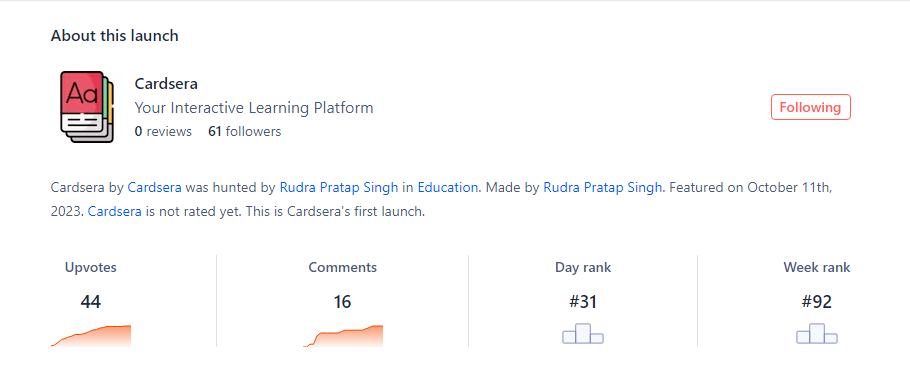
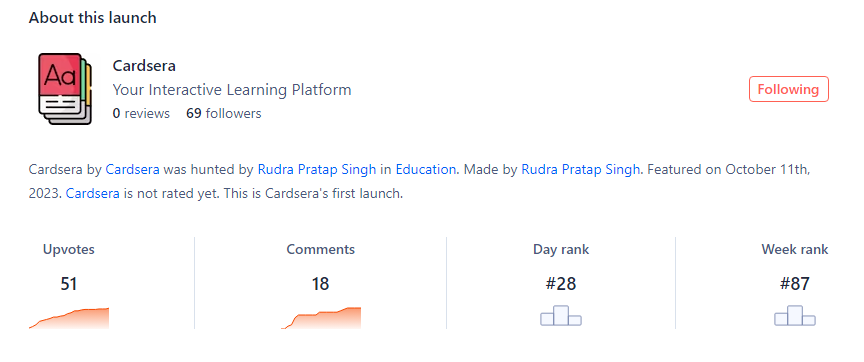
add deck rename feature

diff --git a/src/components/DeckCard.js b/src/components/DeckCard.js
@@ -4,6 +4,7 @@ import styled from 'styled-components'
 import Confirm from '../modalViews/Confirm'
 import useModal from '../Hooks/useModal'
 import { removeLast } from './Heatmap'
+import RenameDeck from '../modalViews/RenameDeck'
 
 const Container = styled.div`
     background:white;
@@ -17,7 +18,6 @@ const Container = styled.div`
 `
 const Button = styled.button`
     height:20px;
-    margin-left:auto;
     display:flex;
     align-items:center;
     cursor:pointer;
@@ -33,7 +33,9 @@ const Button = styled.button`
 function DeckCard({ name, totalCards, createdOn, id, share, userToken,updateDeck,imports}) {
     const [checked, setChecked] = useState(share === 1 ? true : false)
     const [disabled, setDisabled] = useState(false)
+    const [deckName,setDeckName] = useState(name)
     const { dispatchModal } = useModal() 
+    
     const handleShare = async () => {
         setDisabled(true)
         const response = await fetch(`${process.env.REACT_APP_BASE_URL}/user/toggleShare`, {
@@ -83,7 +85,7 @@ function DeckCard({ name, totalCards, createdOn, id, share, userToken,updateDeck
     }
     return (
         <Container>
-            <h2 style={{ color: 'purple'}}>{name}</h2>
+            <h2 style={{ color: 'purple'}}>{deckName}</h2>
             {totalCards} {totalCards === 1 ? "Card" : "Cards"} 
             <br />
             {removeLast((new Date(createdOn).toUTCString()).toString())}
@@ -93,7 +95,8 @@ function DeckCard({ name, totalCards, createdOn, id, share, userToken,updateDeck
             Imports: {imports} 
             <br/>
             <span style={{ display: 'flex', alignItems: 'center' ,width:'100%'}}>
-                Public? &nbsp; <input disabled={disabled} onChange={handleShare} checked={checked} type='checkbox' />
+                Public &nbsp; <input disabled={disabled} onChange={handleShare} checked={checked} type='checkbox' />
+                <Button onClick={()=>dispatchModal({type:'SET_CONTENT',content:<RenameDeck oldName={deckName} token={userToken} setDeckName={setDeckName} />})} style={{background:'orange',marginLeft:'auto',marginRight:'5px'}}>rename</Button>
                 <Button onClick={() => dispatchModal({ type: 'SET_CONTENT', content: <Confirm message={"Are you sure you want to delete this deck?"} deleteItem={handleDelete} /> })}>delete</Button>
             </span>
         </Container>

diff --git a/src/modalViews/RenameDeck.js b/src/modalViews/RenameDeck.js
@@ -1,0 +1,54 @@
+import React, { useState } from 'react'
+import { Button } from '../pages/Practice'
+import { Input } from '../pages/AddCard'
+import useModal from '../Hooks/useModal'
+
+function RenameDeck({ oldName, token, setDeckName }) {
+  const [newName, setNewName] = useState('')
+  const { dispatchModal } = useModal()
+  const [submitting, setSubmitting] = useState(false)
+  const [error, setError] = useState('')
+
+
+  const rename = async () => {
+    setSubmitting(true)
+
+    try {
+      const response = await fetch(`${process.env.REACT_APP_BASE_URL}/user/renameDeck`, {
+        method: 'PUT',
+        headers: {
+          'Content-Type': 'application/json',
+          'authorization': token
+        },
+        body: JSON.stringify({ newName, oldName })
+      })
+      const json = await response.json()
+      if (!response.ok)
+        setError(json.message)
+      else {
+        dispatchModal({ type: 'CLOSE' })
+        setDeckName(newName)
+      }
+    }
+    catch (e) {
+      setError(e.message)
+    }
+    setSubmitting(false)
+
+  }
+
+  return (
+    <div>
+      <h2>Rename deck</h2>
+      <h3 style={{ color: 'blue' }}>{oldName}</h3>
+      <br />
+      <Input autoFocus value={newName} onChange={(e) => { setNewName(e.target.value); setError('') }} style={{ padding: '5px', width: '100%' }} />
+      <br /> 
+      {error!=='' && <span style={{color:'red'}}><br/>{error}<br/></span>} 
+      <br /> 
+      <Button disabled={submitting} onClick={rename} style={{ marginLeft: 'auto', width: '100%' }}>{submitting ? 'Submitting...' : 'Submit'}</Button>
+    </div>
+  )
+}
+
+export default RenameDeck

diff --git a/src/components/ShowDecksInStudyPage.js b/src/components/ShowDecksInStudyPage.js
@@ -1,28 +1,13 @@
 import React from 'react';
 import styled, { keyframes } from 'styled-components';
 
-// Define the shine animation
-const shineAnimation = keyframes`
-  0% {
-    transform: translate(-150%, -150%);
-    opacity: 0;
-  }
-  50% {
-    transform: translate(-50%, -50%);
-    opacity: 1;
-  }
-  100% {
-    transform: translate(0, 0);
-    opacity: 0;
-  }
-`;
 
 // Styled components for the card
 const CardContainer = styled.div`
   position: relative;
   cursor:pointer;
   width: 100%;
-  height: 80px;
+  height: 60px;
   margin: 10px;
   background-color: #f0f0f0;
   border: 1px solid #ddd;
@@ -39,21 +24,7 @@ const CardContainer = styled.div`
   }
 `;
 
-const ShineEffect = styled.div`
-  position: absolute;
-  top: -100%;
-  left: -100%;
-  width: 200%;
-  height: 200%;
-  background: linear-gradient(
-    to top right,
-    rgba(255, 255, 255, 0.8) 0%,
-    rgba(255, 255, 255, 0) 50%,
-    rgba(255, 255, 255, 0.8) 100%
-  );
-  animation: ${shineAnimation} 1.5s infinite;
-  opacity: 0;
-`;
+
 
 const CardName = styled.div`
   position: absolute;
@@ -71,7 +42,6 @@ const ShineCard = ({ name, fetchCards }) => {
 
   return (
     <CardContainer onClick={handleClick}>
-      <ShineEffect />
       <CardName>{name}</CardName>
     </CardContainer>
   );

diff --git a/src/components/Navbar.js b/src/components/Navbar.js
@@ -131,7 +131,7 @@ function Navbar({ showNav, setShowNav }) {
                         )
                     }
 
-                    <span style={{ marginTop: 'auto',textAlign:'center' }}>
+                    <span style={{ marginTop: 'auto',textAlign:'center',userSelect:'text' }}>
                         <small>
                         &#169; Cardsera 2023
                             <br />

diff --git a/src/pages/Progress.js b/src/pages/Progress.js
@@ -55,7 +55,7 @@ function Progress() {
           }
         })
         const json = await response.json()
-        console.log(json);
+        // console.log(json);
         setLoading(false)
         if (!response.ok) {
           return toast.error(json.message)
